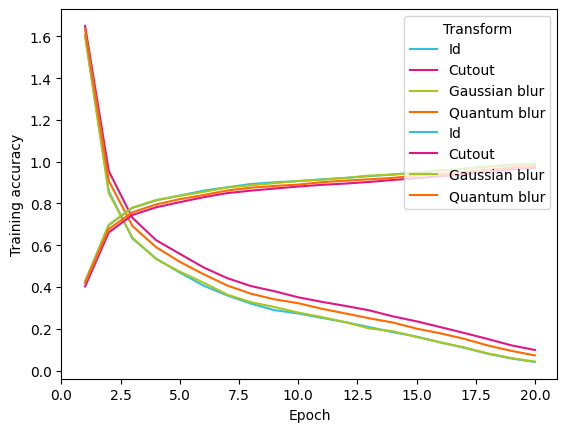
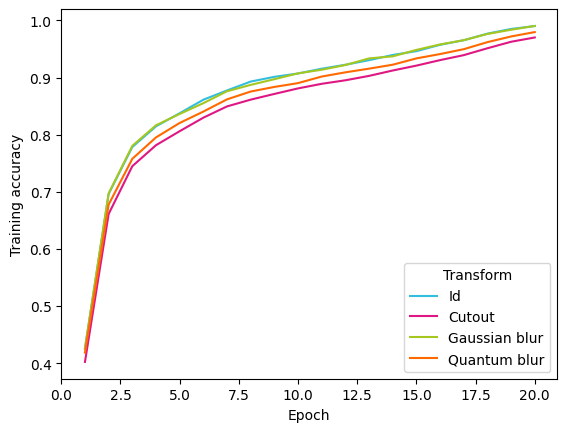
fix: plots stacking

diff --git a/data_augmentation/plots.py b/data_augmentation/plots.py
@@ -61,6 +61,8 @@ def classical_comparison_plot(show_plots=True, save=False, run: int = 0):
 
         if show_plots:
             plt.show()
+        
+        plt.clf()
 
 
 def quantum_blur_hyperparameter(
@@ -225,7 +227,7 @@ def show_quantum_blur(show_images: bool = True, save: bool = False):
 
 
 if __name__ == "__main__":
-    quantum_blur_hyperparameter(save=True)
+    # quantum_blur_hyperparameter(save=True)
     classical_comparison_plot(show_plots=False, save=True)
     # show_classical_data_augmentation()
     # show_quantum_blur()

diff --git a/README.md b/README.md
@@ -19,14 +19,14 @@ Quantum Machine Learning (QML) is one such area containing algorithms that could
 
 Many of these algorithms however, are not implementable on current quantum devices. The requirement for an efficient state preparation routine, or the use of QRAM renders these unusable for some time to come. Even if it these problems didn't occur, the circuits required to run these algorithms are far deeper than we're currently capable of, and so the the results are dominated by hardware noise.
 
-One of the favoured approaches that can be implemented on current machines is to to use Parameterised or Variational Quantum Circuits (PQCs or VQCs). Heuristically, the hope is that the parameters of the circuits being trainable means that the circuit is allowed to learn and adapt to the machine noise, mitigating some of the noise problems on near-term devices.
+One of the favoured approaches that can be implemented on current machines is to to use Parameterised or Variational Quantum Circuits (PQCs or VQCs). Heuristically, the hope is that the parameters of the circuits being trainable means that the circuit is allowed to learn and adapt to the machine noise, mitigating some of the noise problems on near-term devices. 
 
 VQCs typically consist of 3 distinct parts:
  - An embedding for classical data, often angle embedding.
  - A trainable quantum circuit, where the ansatz is picked from a standard set, or designed to increase performance on a given dataset.
  - Measurement of the quantum state.
-
-This can be combined with larger classical networks that reduce the number of features in a dataset to a size suitable for embedding on a quantum computer. Then, this model is paired with a loss function and optimiser to train.
+ 
+This can be combined with larger classical networks that reduce the number of features in a dataset to a size suitable for embedding on a quantum computer. Then, this model is paired with a loss function and optimiser to train.  
 
 Difficulty arises from the fact that seemingly simple circuits need thousands of circuit executions to train. Let's work through some examples and see.
 
@@ -39,7 +39,7 @@ At a basic level, we need to consider:
 
 Extensions of this should also take into account multi-programming, error mitigation or suppression techniques and batching interactions.
 
-For the following, we take the numbered ansatze from [Sim et al.](https://arxiv.org/abs/1905.10876) on 4 qubits, with a depth of 1 and no trainable layers before the quantum circuit.
+For the following, we take the numbered ansatze from [Sim et al.](https://arxiv.org/abs/1905.10876) on 4 qubits, with a depth of 1 and no trainable layers before the quantum circuit. 
 
 |Circuit ansatz  |Gradient method|Training set size  | Epochs |Number of Circuits |
 |--|--|:--:|:--:|:--:|
@@ -63,10 +63,10 @@ This requires 930,000,000 circuits to complete, somewhere in the region of 2-3 y
 
 There are some mitigations we can put in place, for instance the use of multi-programming i.e. stacking circuits next to each other so they can run on a larger machine. However, this may require fundamentally changing how we view either the use of quantum for QML or the methods for resource reduction.
 
-If we return to the above table, we can see that a fixed circuit has many less circuit execution than some of these simple models - and this still holds even if the complexity of the circuit increases. If we can make use of this in some machine learning process, where the noise of the quantum circuit is helpful, this could make a good candidate for further exploration.
+If we return to the above table, we can see that a fixed circuit has many less circuit execution than some of these simple models - and this still holds even if the complexity of the circuit increases. If we can make use of this in some machine learning process, where the noise of the quantum circuit is helpful, this could make a good candidate for further exploration. 
 
 # Data augmentation
-Data augmentation in classical computing is a technique to increase the performance of models without needing to collect more data. Instead, existing data is perturbed or transformed in some fashion to create similar but non-identical data. This can take place statically, by generating extra data before the beginning of a machine learning process or dynamically as each piece of data is loaded. This can be used to help encode biases of the data or make the model more robust to noise. For classification problems, in its simplest form, the transformations of the data map classes to the same class, a dog to a dog, a cat to a cat.
+Data augmentation in classical computing is a technique to increase the performance of models without needing to collect more data. Instead, existing data is perturbed or transformed in some fashion to create similar but non-identical data. This can take place statically, by generating extra data before the beginning of a machine learning process or dynamically as each piece of data is loaded. This can be used to help encode biases of the data or make the model more robust to noise. For classification problems, in its simplest form, the transformations of the data map classes to the same class, a dog to a dog, a cat to a cat. 
 
  - Translation - padding an image and randomly cropping it translates the image. This encodes a translation-invariant bias: a cat is a cat whether it's in the top-right or the bottom-left.
  - Mirroring - images can be flipped left to right. A cat in a mirror is still a cat.
@@ -84,12 +84,12 @@ $$
 
 For an RGB image, you obtain three quantum states $|h_R \rangle, |h_G \rangle, |h_B \rangle$ corresponding to the height maps for each RGB component. For decoding, the magnitude of the amplitude is unknown, so the largest value is mapped to 255. In practice, this arbitrary rescaling could be replaced with a high percentile value of the height distribution of the test set so it's more representative of the original image.
 
-Now, the choice of map $s(x,y)$ is such that the Hamming distance of neighbouring pixels is equal to 1. This means that interacting with a given qubit will also interact with neighbouring pixels (and some longer range correlations due to the mapping construction). Manipulating this embedding is achieved by applying rotational gates, which for an RX gate with small angle $\theta$ transforms
-$$\sqrt{h(x,y)} \to i \sqrt{h(x,y)} + \frac{\theta}{2}\sum_j \sqrt{h(x_j, y_j)},$$ for pixels $(x_j, y_j)$ that have mappings $s(x_j, y_j)$ differing from $s(x,y)$ by only one bit. So for small angles, this is close to linearly interpolating between 'close' pixels.
+Now, the choice of map $s(x,y)$ is such that the Hamming distance of neighbouring pixels is equal to 1. This means that interacting with a given qubit will also interact with neighbouring pixels (and some longer range correlations due to the mapping construction). Manipulating this embedding is achieved by applying rotational gates, which for an RX gate with small angle $\theta$ transforms  
+$$\sqrt{h(x,y)} \to i \sqrt{h(x,y)} + \frac{\theta}{2}\sum_j \sqrt{h(x_j, y_j)},$$ for pixels $(x_j, y_j)$ that have mappings $s(x_j, y_j)$ differing from $s(x,y)$ by only one bit. So for small angles, this is close to linearly interpolating between 'close' pixels. 
 
-For the experiments carried out below, we'll be using the [res-net](https://arxiv.org/abs/1512.03385) model from [myrtle.ai](https://myrtle.ai/learn/how-to-train-your-resnet/) as it's ridiculously fast to run with classical data augmentation. The original model runs for 24 epochs and on average achieves the human level accuracy of 94% on a 10 class classification problem. The dataset is [CIFAR-10](https://www.cs.toronto.edu/~kriz/cifar.html) a collection of 32 x 32 colour images in 10 classes (a mixture of animals and vehicles)  with a training set of size 50,000 images and 10,000 images in the test set.
+For the experiments carried out below, we'll be using the [res-net](https://arxiv.org/abs/1512.03385) model from [myrtle.ai](https://myrtle.ai/learn/how-to-train-your-resnet/) as it's ridiculously fast to run with classical data augmentation. The original model runs for 24 epochs and on average achieves the human level accuracy of 94% on a 10 class classification problem. The dataset is [CIFAR-10](https://www.cs.toronto.edu/~kriz/cifar.html) a collection of 32 x 32 colour images in 10 classes (a mixture of animals and vehicles)  with a training set of size 50,000 images and 10,000 images in the test set. 
 
-First, we'll compare this model to classical data augmentations to understand if quantum data augmentation can provide useful
+First, we'll compare this model to classical data augmentations to understand if quantum data augmentation can provide useful 
 
 Note that if we can efficiently implement these transformations, then this may be suitable for use primarily as quantum-inspired approach, where larger images are fed through in patches.
 
@@ -106,22 +106,22 @@ x^\ast = \lambda x_0 + (1-\lambda )x_1, \quad y^\ast = \lambda y_0 + (1-\lambda 
 $$
 This requires us to use one-hot encodings of class labels, so each input data is a binary vector instead of a class number so we can linearly interpolate the labels and it naturally extends to beyond binary classification. This transformation occurs once a batch of images has been chosen to process and does not require that the images are from different classes.
 
-In quantum computing, we can also combine states in a sensible fashion by considering the SWAP gate. The action of the SWAP gate is given by
+In quantum computing, we can also combine states in a sensible fashion by considering the SWAP gate. The action of the SWAP gate is given by 
 $$
-\text{SWAP} | x_0\rangle | x_1\rangle = |x_1\rangle | x_0 \rangle.
+\text{SWAP} | x_0\rangle | x_1\rangle = |x_1\rangle | x_0 \rangle. 
 $$
-As the SWAP gate is a unitary matrix, we can also take fractional powers of the SWAP gate to [combine images](https://arxiv.org/abs/2007.11510). This provides us with a Quantum Mixup method, also parameterised by $\lambda \in (0,1)$ for gate application $\text{SWAP}^\lambda$.  It is not immediately clear what label value the new image should take. While linear interpolation, as in the classical case, could be sensible, a shifted and rescaled $\tanh$ function could also provide sensible labelling.
+As the SWAP gate is a unitary matrix, we can also take fractional powers of the SWAP gate to [combine images](https://arxiv.org/abs/2007.11510). This provides us with a Quantum Mixup method, also parameterised by $\lambda \in (0,1)$ for gate application $\text{SWAP}^\lambda$.  It is not immediately clear what label value the new image should take. While linear interpolation, as in the classical case, could be sensible, a shifted and rescaled $\tanh$ function could also provide sensible labelling. 
 
 Due to time constraints, we have been unable to explore but provide comparisons to classical mixup on two CIFAR-10 images.
 
-
+ 
 
 # Conclusions
 As with many QML experiments, we are unable to conclude much more than the method is successful at achieving the task. However, given the size of the dataset trained on, this is encouraging, as it allows studies of dataset sizes that may be closer to real-world applications.
 
 It also introduces a number of opportunities to explore this further:
 
- - Expansion of the resource estimation to account for additional strategies like multi-programming, different classical embeddings and batch-sizes.
+ - Expansion of the resource estimation to account for additional strategies like multi-programming, different classical embeddings and batch-sizes. 
  - Integration of the resource estimation with PennyLane differentiation transforms to analyse arbitrary quantum circuits.
  - Running the model on quantum hardware to understand the true practicality of the approach.
  - Alternative embeddings for images such as angle embedding.
@@ -132,5 +132,5 @@ Hopefully this leaves readers better aware of the practical constraints of QML a
 ## Acknowledgements
 Thanks must go to James R. Wootton and Marcel Pfaffhauser for their experiments with and implementation Quantum Blur. Additionally to David Page for a lightning-fast model for classification on CIFAR-10.
 
-And lastly:
+And lastly: 
 > Written with [StackEdit](https://stackedit.io/). [sic]
